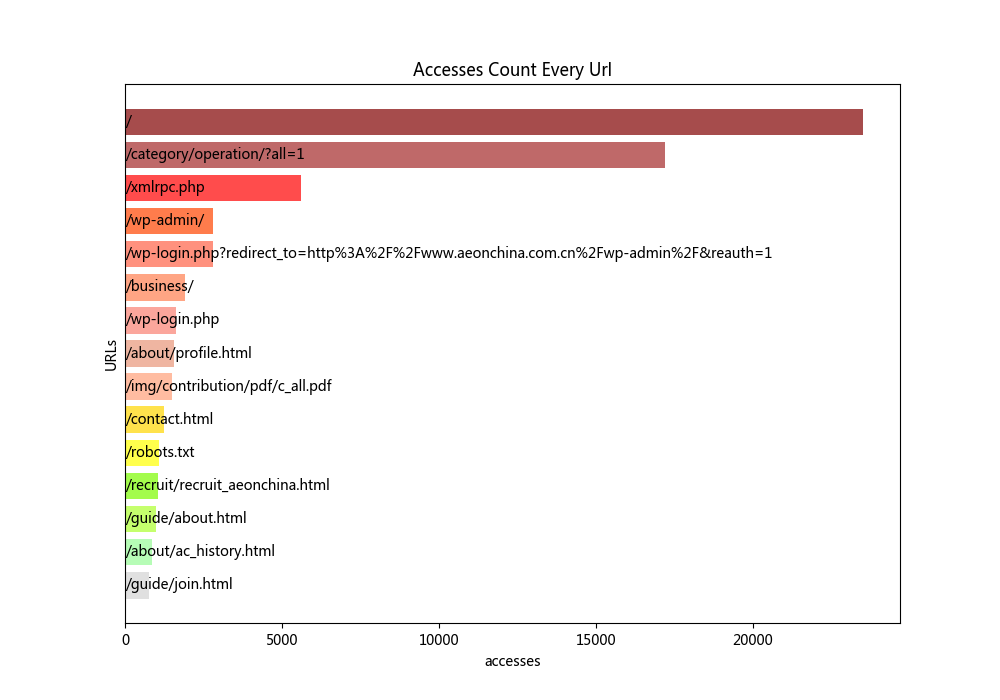
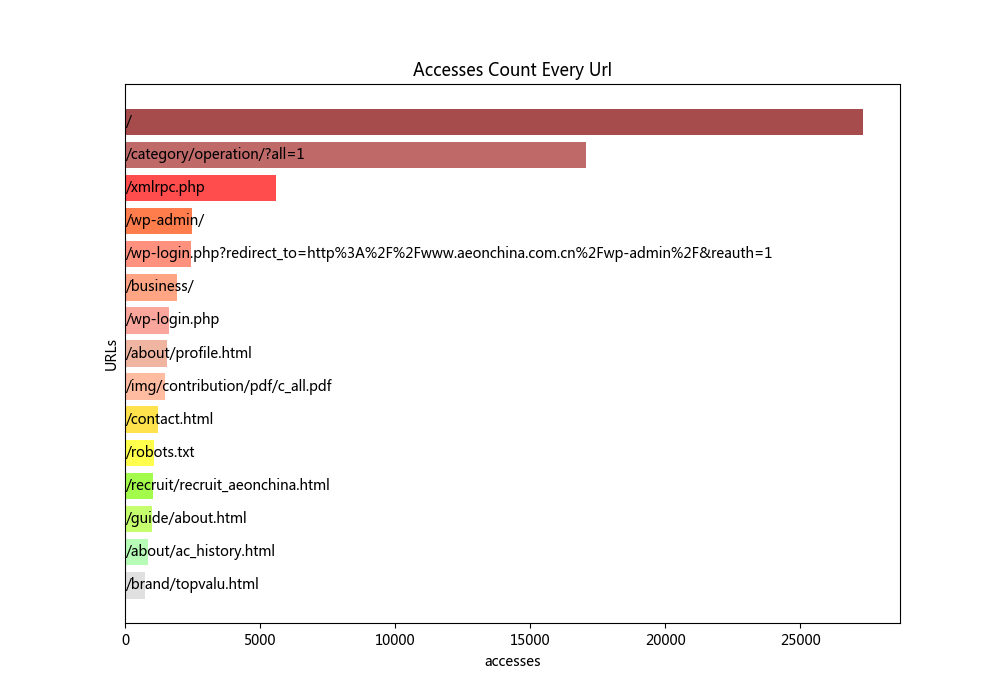
V1.0.0
update

diff --git a/mk_graph.py b/mk_graph.py
@@ -5,13 +5,12 @@
 #version : 1.0.0
 #make graph from apache access logs
 
-import os, sqlite3, datetime
-from urllib import request
+import os, sqlite3, datetime, re
 import matplotlib
 import numpy as np
 import geoip2.database
 from matplotlib import colors
-matplotlib.use('Agg')
+matplotlib.use('Agg')  #setting in linux to not use x-window
 import matplotlib.pyplot as plt
 from mpl_toolkits.basemap import Basemap
 
@@ -20,51 +19,129 @@ matplotlib.rcParams['toolbar'] = 'None'
 #matplotlib.rcParams['font.family']='sans-serif'
 
 def read_config():
-    with open("conf/config.ini","r") as f:
-        lines=f.readlines()
-    lines[0].split("=")[1]
-    lines[1].split("=")[1]
-    lines[2].split("=")[1]
-    logpath=/var/log/httpd/
-    logfile=access_YYYY_MM_DD.log
-    graphpath=./pngs/
+    #open config file
+    try:
+        with open("conf/config.ini","r") as f:
+            lines=f.readlines()
+    except:
+        print("ERROR: config.ini not found, please make sure config.ini in ./conf/")
 
-def get_date(start_time="",end_time=""):
-    #get one date of 3 month ago ,and 1 month ago
-    season_ago = datetime.datetime.now() + datetime.timedelta(days=-70)
-    last_month = datetime.datetime.now() + datetime.timedelta(days=-10)
-    strfdate_s = str(season_ago.strftime("%Y%m"))
-    strfdate_l = str(last_month.strftime("%Y%m"))
-    #get last day of the month
-    if strfdate_s[-2:] in ["01","03","05","07","08","10","12"]:
-        i = 31
-    elif strfdate_s[-2:] in ["04","06","09","11"]:
-        i = 30
-    elif strfdate_s[-2:] == "02":
-        if int(strfdate_s[-2:]) % 4 == 0:
-            i = 29
-        else:
-            i = 28
-    #get start date and end date
-    startdate=str(strfdate_s + "01")
-    enddate=str(strfdate_l + "01")
-    return startdate,enddate
+    #read congfig file to dictionary
+    paths={}
+    for i in range(0,2):
+        line=lines[i].strip("\n").split("=")
+        paths.update({line[0] : line[1]})
 
-def get_data(path,sql):
+    basepath = os.path.abspath(__file__).strip("mk_graph.py")
+
+    paths.update({"basepath" : basepath})
+
+    
+    #if setting is null, make default setting
+    if not paths["logpath"]:
+        paths["logpath"] = "/var/log/httpd/"
+        print("INFO: logpath setting is null, set logpath to /var/log/httpd/")
+    if not paths["graphpath"]:
+        paths["graphpath"] = basepath + "/pngs/" 
+        print("INFO: graphpath setting is null, set logfile to ./pngs/")
+    
+    #check path exists, make dir if not exists 
+    if not os.path.exists(paths["logpath"]):
+        print("INFO: logpath not exist ,creating logpath")
+        os.makedirs(paths["logpath"], 0o755)
+
+    if not os.path.exists(paths["graphpath"]):
+        print("INFO: graphpath not exist ,creating graphpath")
+        os.makedirs(paths["graphpath"], 0o755)
+
+    return paths
+
+def get_filenames(logpath):
+    file_list = []
+    allfile = os.listdir(logpath)
+    for file in allfile:
+        if re.match("^access.*\.log$",file):
+            file_list.append(file)
+    return file_list
+
+def spilt_logs(line):
+    log=line.strip("\n")
+    #split log with "
+    a=log.split('"')
+    #split 1st block with blank
+    b=a[0].split()
+    ip=b[0]
+    #the block like [02/Feb/2018:04:56:14 ,split it to 02/Feb/2018 and 04 56 14
+    dt=b[3][1:].split(':')
+    trans={"Jan":"01","Feb":"02","Mar":"03","Apr":"04","May":"05","Jun":"06","Jul":"07","Aug":"08","Sep":"09","Oct":"10","Nov":"11","Dec":"12"}
+    c=dt[0].split('/')
+    date=c[2]+trans[c[1]]+c[0]
+    time=dt[1]
+    #split 2nd block with blank,get destnation
+    dest=a[1].split()[1]
+    #split 3rd block with blank,get code
+    code=a[2].split()[0]
+    return ip,date,time,dest,code
+
+def analyze_logs(logpath):
+    #set key for no use log
+    key="spider|Googlebot|bingbot|AdsBot|Yahoo! Slurp|127.0.0.1|.png|.jpg|.js|.css|.mp4|.ico|404|301|x16|x03|x01"
+    #get file list
+    file_list=get_filenames(logpath)
+    #question and answer
+    print("insert these logfiles into database?")
+    print(file_list)
+    print("'y' for insert logfiles into database,'n' for select data from exist database")
+    answer1 = input("please input [y/n],enter for NO:")
+    if answer1 == "Y" or answer1 == "y":
+        #make connection to sqlite3 ,if not exist, create new db file automaticly
+        conn=sqlite3.connect('./logs.db')
+        cursor=conn.cursor()
+        #check table 'logs' exist, if not exist, create new table
+        try:
+            cursor.execute("select * from log limit 1")
+        except:
+            cursor.execute("CREATE TABLE logs(ip TEXT,date TEXT,time TEXT,dest TEXT,code int)")
+            print("INFO: table 'logs' not exist ,creating table 'logs'")
+        #open each file
+        print("INFO: inserting logs ...")
+        for files in file_list:
+            with open(logpath + files,'r') as f:
+                lines = f.readlines()
+                #compile each line
+                for line in lines:
+                    #if match key ,do nothing
+                    if re.search(key, line):
+                        pass 
+                    #if not match key ,insert into sqlite3
+                    else:
+                        try:
+                            res=spilt_logs(line)
+                        except:
+                            continue
+                        sql='insert into logs (ip, date, time, dest, code) values("'+res[0]+'","'+res[1]+'","'+res[2]+'","'+res[3]+'","'+res[4]+'")'
+                        cursor.execute(sql)
+        #commit and close connection
+        conn.commit()
+        cursor.close()
+    else:
+        print("select data from exist database")
+
+def get_data(basepath,sql):
     #get data from sqlite3
-    conn=sqlite3.connect(path + 'logs.db')
+    conn=sqlite3.connect(basepath +"/"+ 'logs.db')
     cursor=conn.cursor()
     res=cursor.execute(sql)
     resault=res.fetchall()
     return resault
 
-def get_county(all_ips):
+def get_county(basepath,all_ips):
     all_countries=[]
     for ips in all_ips:
         ip=ips[0]
         count=ips[1]
         #GeoIP2 module IP to country
-        reader = geoip2.database.Reader('/usr/local/lib/python3.6/site-packages/geoip2/GeoLite2-City.mmdb')
+        reader = geoip2.database.Reader(basepath +"/source/GeoLite2-db/GeoLite2-City.mmdb")
         response = reader.city(ip)
         
         #get country and province
@@ -105,9 +182,9 @@ def set_data(data):
     data_sorted=sorted(counted_data,key=lambda c: c[1], reverse=True)
     return data_sorted
 
-def get_lat_lon(path, txt):
+def get_lat_lon(basepath, txt):
     #get lonitude and latitude from txt file
-    with open(path + txt) as f:
+    with open(basepath +"/conf/" + txt) as f:
         lines=f.readlines()
     lat_lons={}
     for line in lines:
@@ -117,7 +194,7 @@ def get_lat_lon(path, txt):
         lat_lons.update(lat_lon)
     return lat_lons
 
-def mk_scatter(data,base,path,map_type):
+def mk_scatter(data,base,basepath,graphpath,map_type):
     lons = []
     lats = []
     counts = []
@@ -164,10 +241,12 @@ def mk_scatter(data,base,path,map_type):
     
     #Basemap projection
     if map_type == "china":
+        print("INFO: making china scatter graph ...")
         #Drow china map
         map = Basemap(projection='mill',llcrnrlat=18,urcrnrlat=54,llcrnrlon=73,urcrnrlon=140)
-        map.readshapefile(path + 'CHN_adm1',"state",drawbounds=True)
+        map.readshapefile(basepath + "source/shapefile/CHN_adm1","state",drawbounds=True)
     elif map_type == "world":
+        print("INFO: making world scatter graph ...")
         #Drop world map
         map = Basemap(projection='mill',llcrnrlat=-70,urcrnrlat=80,llcrnrlon=-180,urcrnrlon=180)
         map.drawcountries(color='0.50',linewidth=0.25)
@@ -213,9 +292,9 @@ def mk_scatter(data,base,path,map_type):
     plt.yticks([0.1,1],[])
 
     #save image
-    plt.savefig(path + "/pngs/"+ map_type +"_scatter.png")
+    plt.savefig(graphpath + "/"+ map_type +"_scatter.png")
 
-def mk_bar(data, path, name, totle=""):
+def mk_bar(data, graphpath, name, totle=""):
     #get xticks data list and yticks data list
     x_data = []
     y_data = []
@@ -228,6 +307,7 @@ def mk_bar(data, path, name, totle=""):
     plt.figure(figsize=(10,7))
 
     if name=="day":
+        print("INFO: making day bar graph ...")
         #make day bar graph
         color=["blue","cornflowerblue","deepskyblue","darkturquoise","cyan","turquoise","aquamarine","lightskyblue","lightblue"]
         plt.bar(x_data,y_data,color=color,alpha=0.7)
@@ -235,6 +315,7 @@ def mk_bar(data, path, name, totle=""):
         plt.xticks(rotation=90)
         plt.ylabel("accesses") 
     elif name=="hour":
+        print("INFO: making hour pie graph ...")
         #make hour pie graph
         x=[np.pi/180*x for x in np.arange(7.5,360,15)]
         w=np.pi/12
@@ -250,6 +331,7 @@ def mk_bar(data, path, name, totle=""):
         ax.set_rlabel_position(180)
         plt.bar(x,y,w,color=color,alpha=0.7)
     elif name=="URL":
+        print("INFO: making URL bar graph ...")
         #make URL bar graph
         color=['lightgrey', 'palegreen', 'greenyellow', 'lawngreen', 'yellow', 'gold', 'lightsalmon', 'darksalmon', 'salmon', 'coral', 'tomato', 'orangered', 'red', 'brown','maroon']
         plt.barh(x_data[::-1],y_data[::-1],color=color,alpha=0.7)
@@ -262,64 +344,76 @@ def mk_bar(data, path, name, totle=""):
     #set title for graph
     plt.title("Accesses Count Every " + name.capitalize())
     
-    plt.savefig(path +  "/pngs/"+ name +"_bar.png")
+    plt.savefig(graphpath +  "/"+ name +"_bar.png")
 
 def main():
-    path="/app/monthly/aeonchina/source/"
-    #get start date and end date
-    date=get_date()
-     
+    config = read_config()
+    logpath = config["logpath"]
+    graphpath = config["graphpath"]
+    basepath = config["basepath"]
+    analyze_logs(logpath)
+
+    #get start_date and end_date
+    start_date = input("please input start date \(format:YYYYMMDD\):" )
+    end_date = input("please input end date \(format:YYYYMMDD\):" )
+    while not re.match("[12]{1}[0-9]{3}[01]{1}[0-9]{1}[0-3]{1}[0-9]{1}",start_date):
+        start_date = input("please input creccot format start date \(format:YYYYMMDD\):" )
+    while not re.match("[12]{1}[0-9]{3}[01]{1}[0-9]{1}[0-3]{1}[0-9]{1}",end_date): 
+        end_date = input("please input creccot format end date \(format:YYYYMMDD\):" )
     #=================make bar graph by date====================== 
 
     #get data for sum access
-    sql1a='select count(*) from logs where date >= "'+ date[0] +'" and date <= "'+ date[1] +'"'
-    all_access=get_data(path,sql1a)
+    sql1a='select count(*) from logs where date >= "'+ start_date +'" and date <= "'+ end_date +'"'
+    all_access=get_data(basepath,sql1a)
     
     #get data for daily sum access
-    sql1b='select date, count(*) from logs where date >= "'+ date[0] +'" and date <= "'+ date[1] +'" group by date order by date'
-    day_access=get_data(path,sql1b)
+    sql1b='select date, count(*) from logs where date >= "'+ start_date +'" and date <= "'+ end_date +'" group by date order by date'
+    day_access=get_data(basepath,sql1b)
 
     #make graph
     try:
-        mk_bar(day_access,path,"day",all_access)
+        mk_bar(day_access,graphpath,"day",all_access)
     except Exception as e:
         print(e)
+        print("ERROR: making day bar graph Failed, do next graph")
         pass
      
     #=================make bar graph by hour====================== 
 
     #get data for hour sum access
-    sql2='select time, count(*) from logs where date >= "'+ date[0] +'" and date <= "'+ date[1] +'" group by time order by time'
-    hour_access=get_data(path,sql2)
+    sql2='select time, count(*) from logs where date >= "'+ start_date +'" and date <= "'+ end_date +'" group by time order by time'
+    hour_access=get_data(basepath,sql2)
 
     #make graph
     try:
-        mk_bar(hour_access,path,"hour")
+        mk_bar(hour_access,graphpath,"hour")
     except Exception as e:
         print(e)
+        print("ERROR: making hour pie graph Failed, do next graph")
         pass
    
     #=================make bar graph by access page====================== 
 
     #get data for destination sum access
-    sql3='select dest, count(*) from logs where date >= "'+ date[0] +'" and date <= "'+ date[1] +'" group by dest order by count(*) desc limit 15'
-    dest_access=get_data(path,sql3)
+    sql3='select dest, count(*) from logs where date >= "'+ start_date +'" and date <= "'+ end_date +'" group by dest order by count(*) desc limit 15'
+    dest_access=get_data(basepath,sql3)
 
     #make graph
     try:
-        mk_bar(dest_access,path,"URL")
+        mk_bar(dest_access,graphpath,"URL")
     except Exception as e:
         print(e)
+        print("ERROR: making URL bar graph Failed, do next graph")
         pass
     
     #=================make scatter graph by aera======================    
 
     #get data for ip sum access
-    sql4='select ip, count(ip) from logs where date >= "'+ date[0] +'" and date <= "'+ date[1] +'" group by ip'
-    all_ips=get_data(path,sql4)
+    sql4='select ip, count(ip) from logs where date >= "'+ start_date +'" and date <= "'+ end_date +'" group by ip'
+    all_ips=get_data(basepath,sql4)
 
     #get all country names with format [ip,name,count]
-    all_countries=get_county(all_ips)
+    all_countries=get_county(basepath,all_ips)
     
      
     try:
@@ -327,11 +421,12 @@ def main():
         data_w=set_data(all_countries)
 
         #make scatter for world view
-        txt_w="countries.txt"
-        base_w=get_lat_lon(path, txt_w)
-        mk_scatter(data_w,base_w,path, "world")
+        txt_w="countries.ini"
+        base_w=get_lat_lon(basepath, txt_w)
+        mk_scatter(data_w,base_w,basepath,graphpath, "world")
     except Exception as e:
         print(e)
+        print("ERROR: making world scatter graph Failed, do next graph")
         pass
     
     #get all province names with format [ip,name,count]
@@ -342,13 +437,15 @@ def main():
         data_c=set_data(all_provinces)
 
         #make scatter for china view
-        txt_c="provinces.txt"
-        base_c=get_lat_lon(path, txt_c)
-        mk_scatter(data_c,base_c,path, "china")
+        txt_c="provinces.ini"
+        base_c=get_lat_lon(basepath, txt_c)
+        mk_scatter(data_c,base_c,basepath,graphpath, "china")
     except Exception as e:
         print(e)
+        print("ERROR: making china scatter graph Failed")
         pass
 
+    print("INFO: Jobs Done!!! please check " +graphpath)
 
 if __name__=="__main__":
     main()
